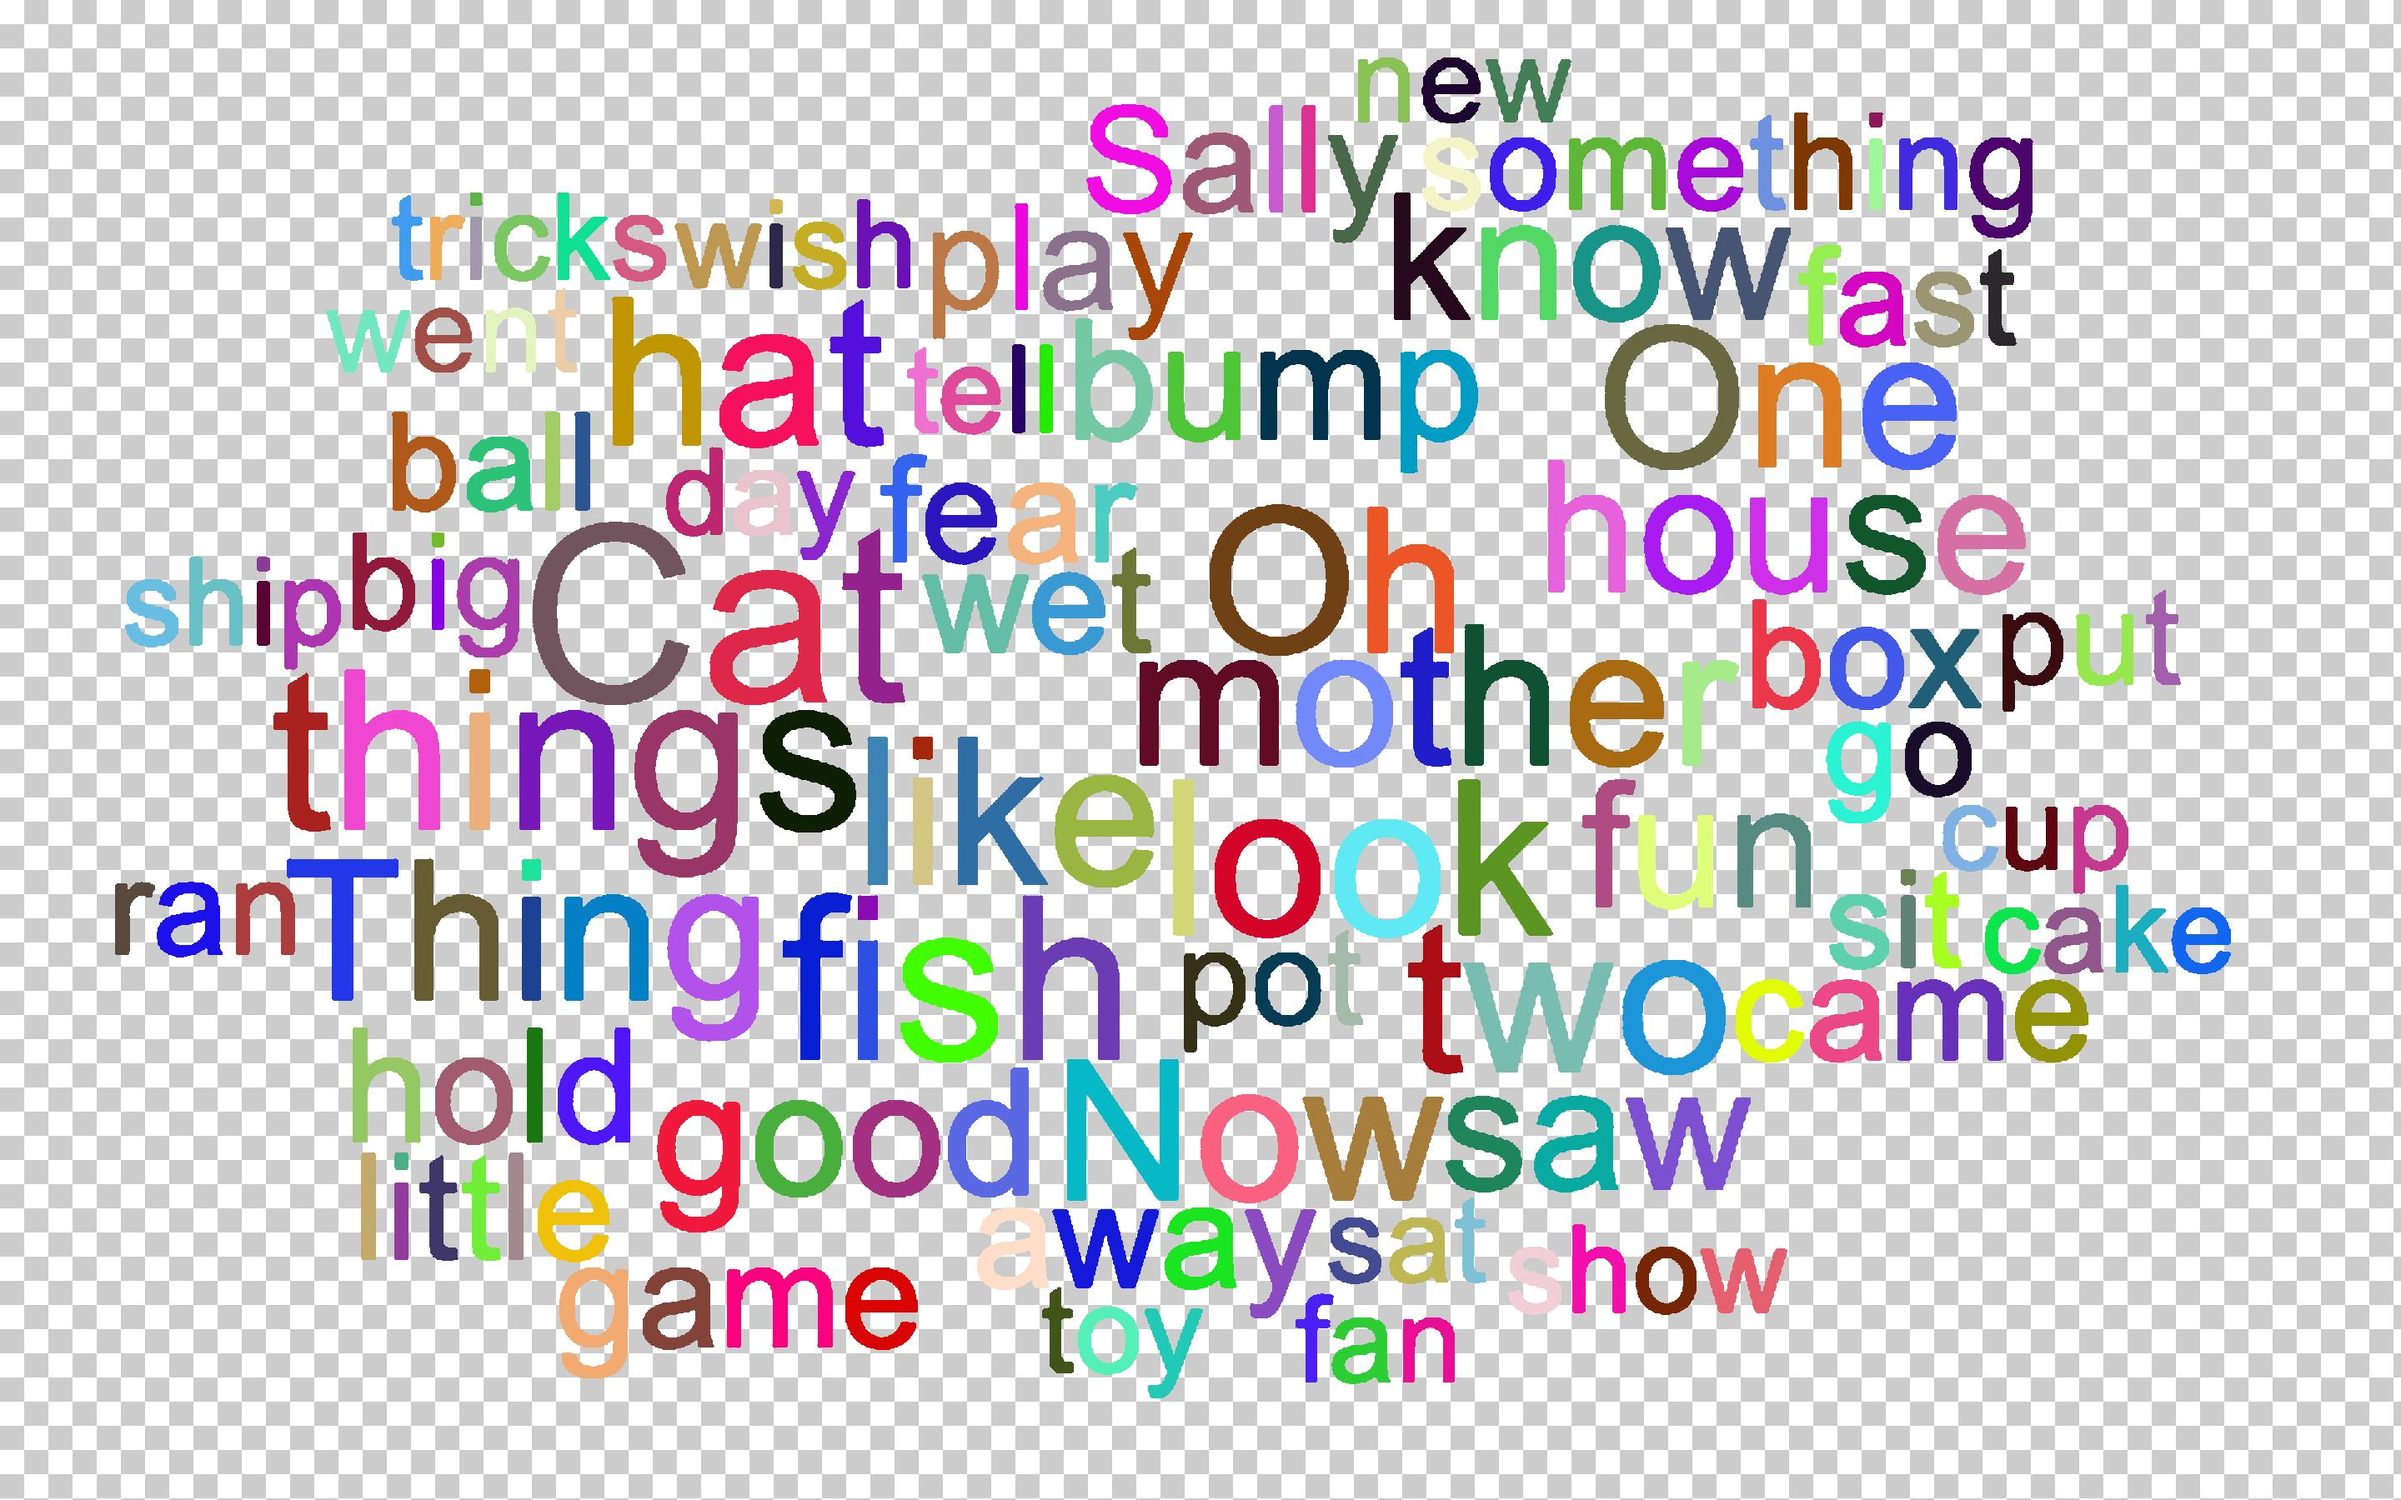
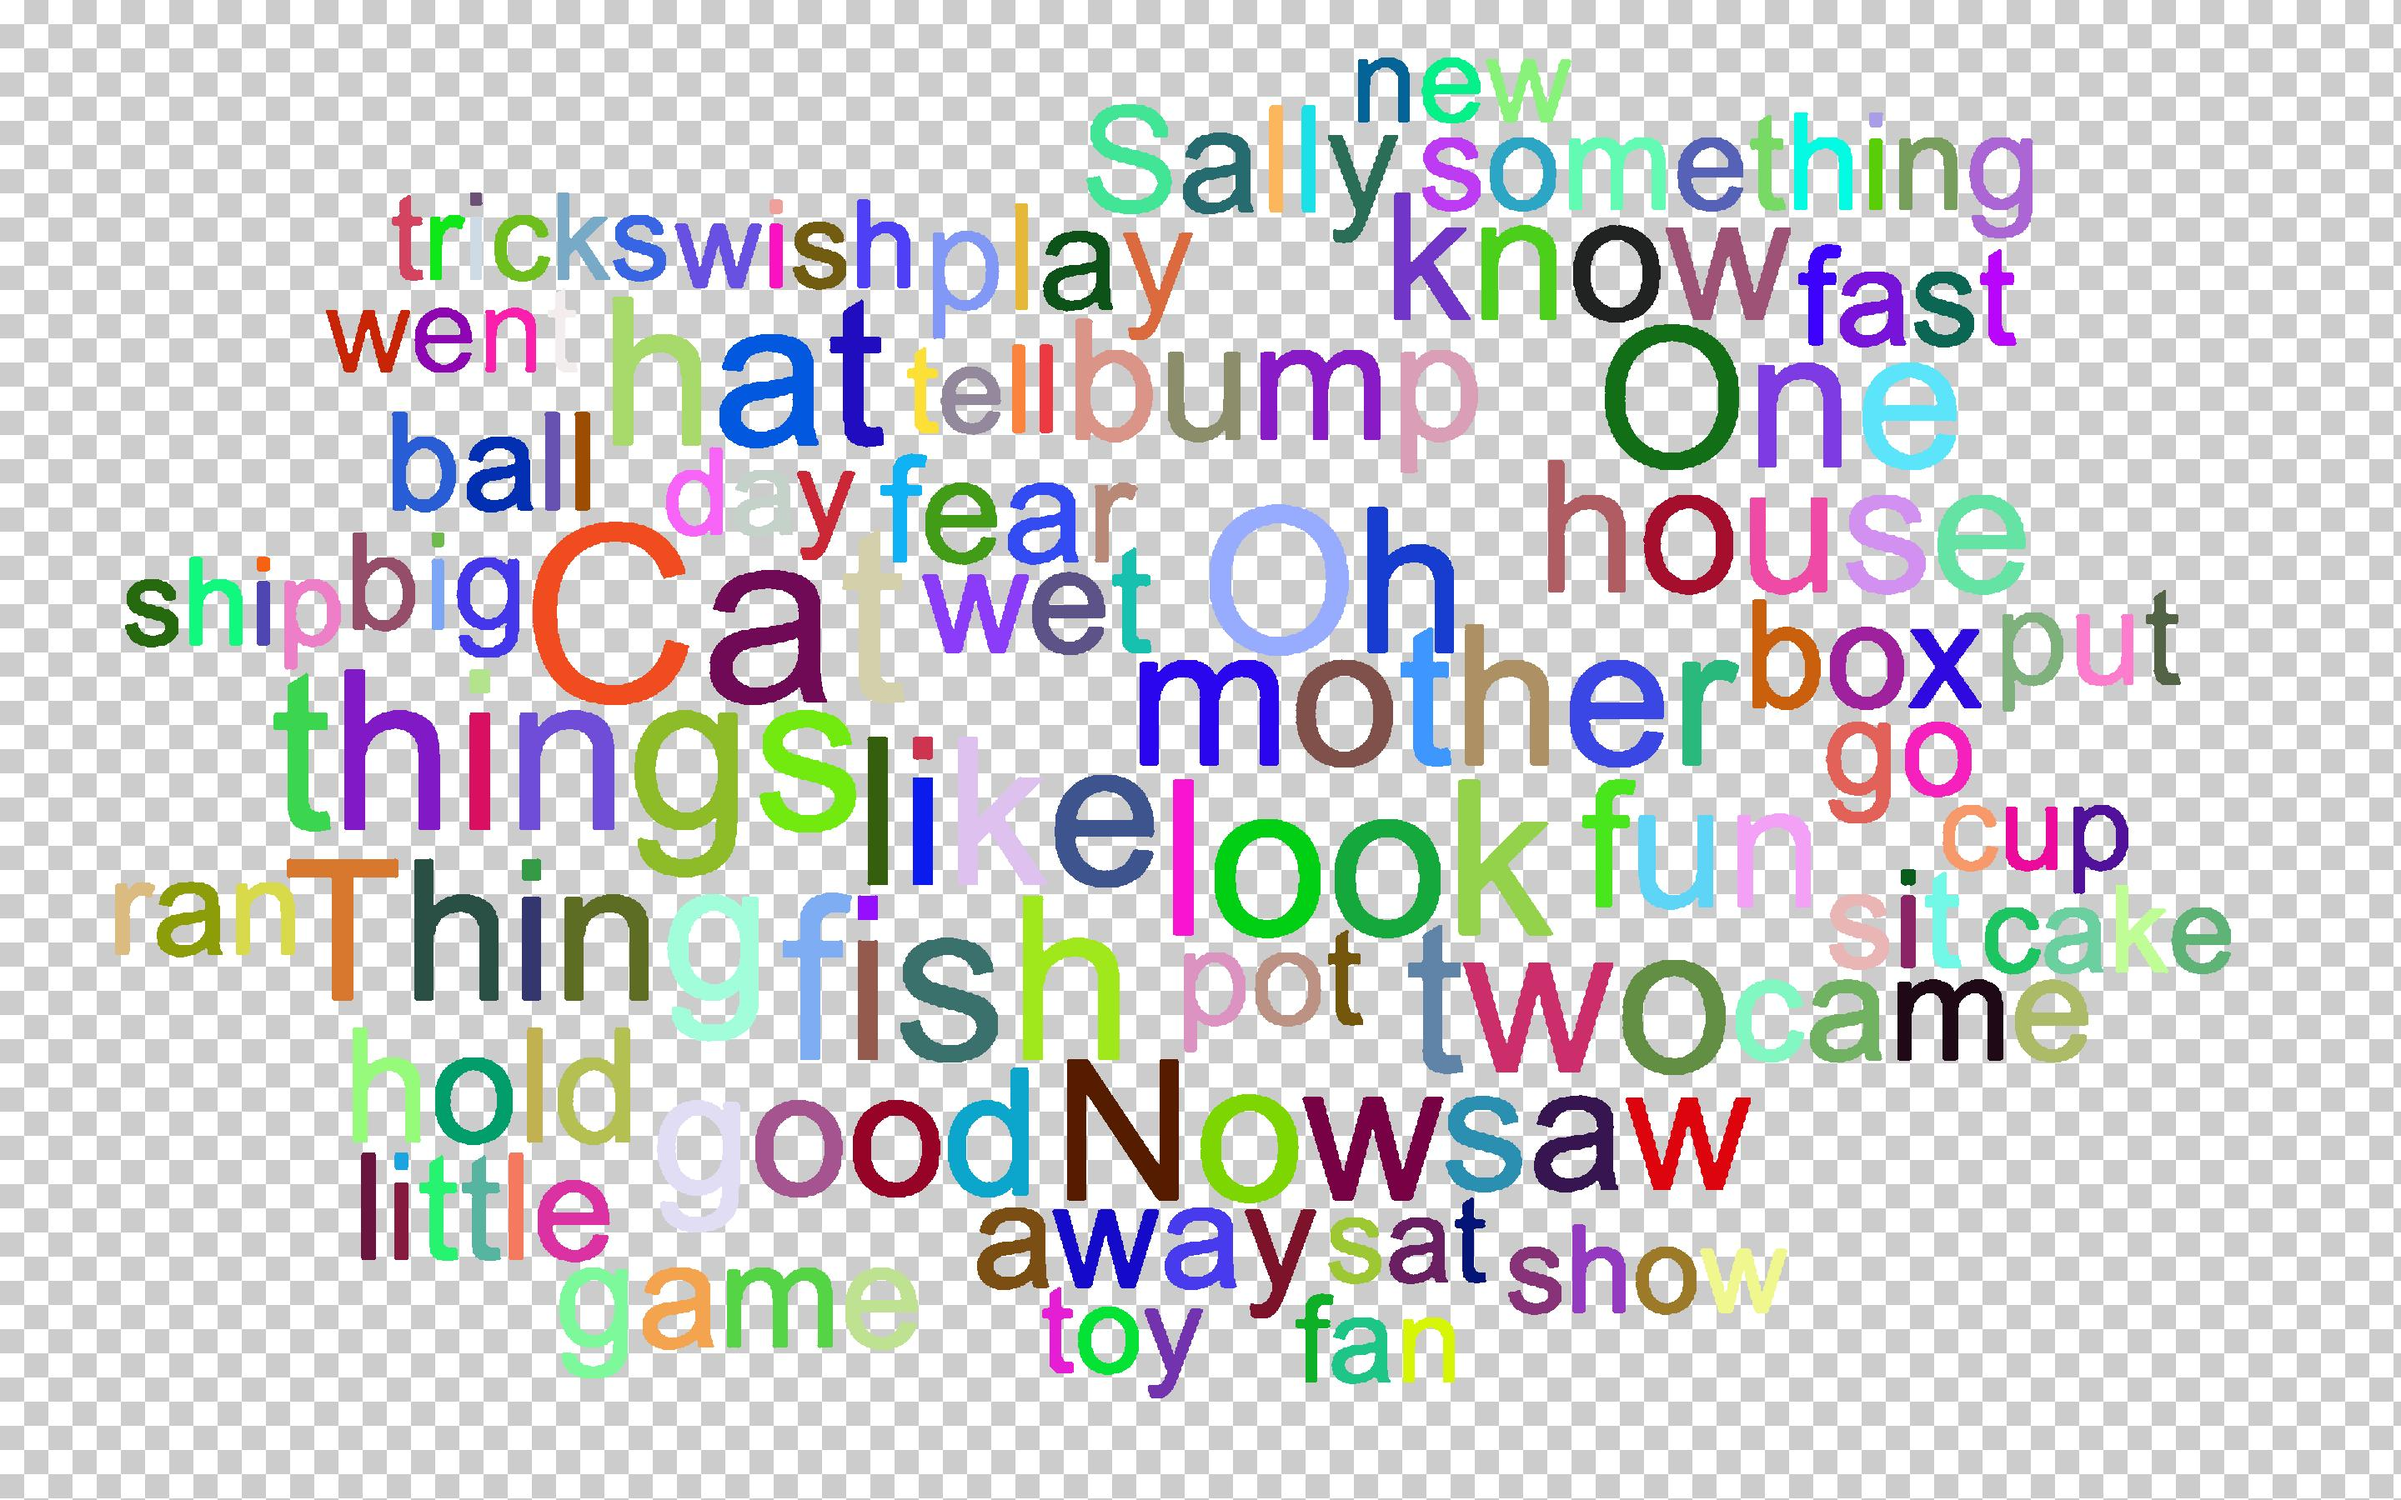
updated examples

Changed region(s): [[0.0312, 0.0311, 0.9375, 0.9333]]

diff --git a/run_script.m b/run_script.m
@@ -2,7 +2,11 @@ close all;
 clear all;
 clc;
 
+<<<<<<< HEAD
+im_name = 'd3_003.png';
+=======
 im_name = 'd3_004.png';
+>>>>>>> FETCH_HEAD
 % im_name = 'fun.png';
 
 
